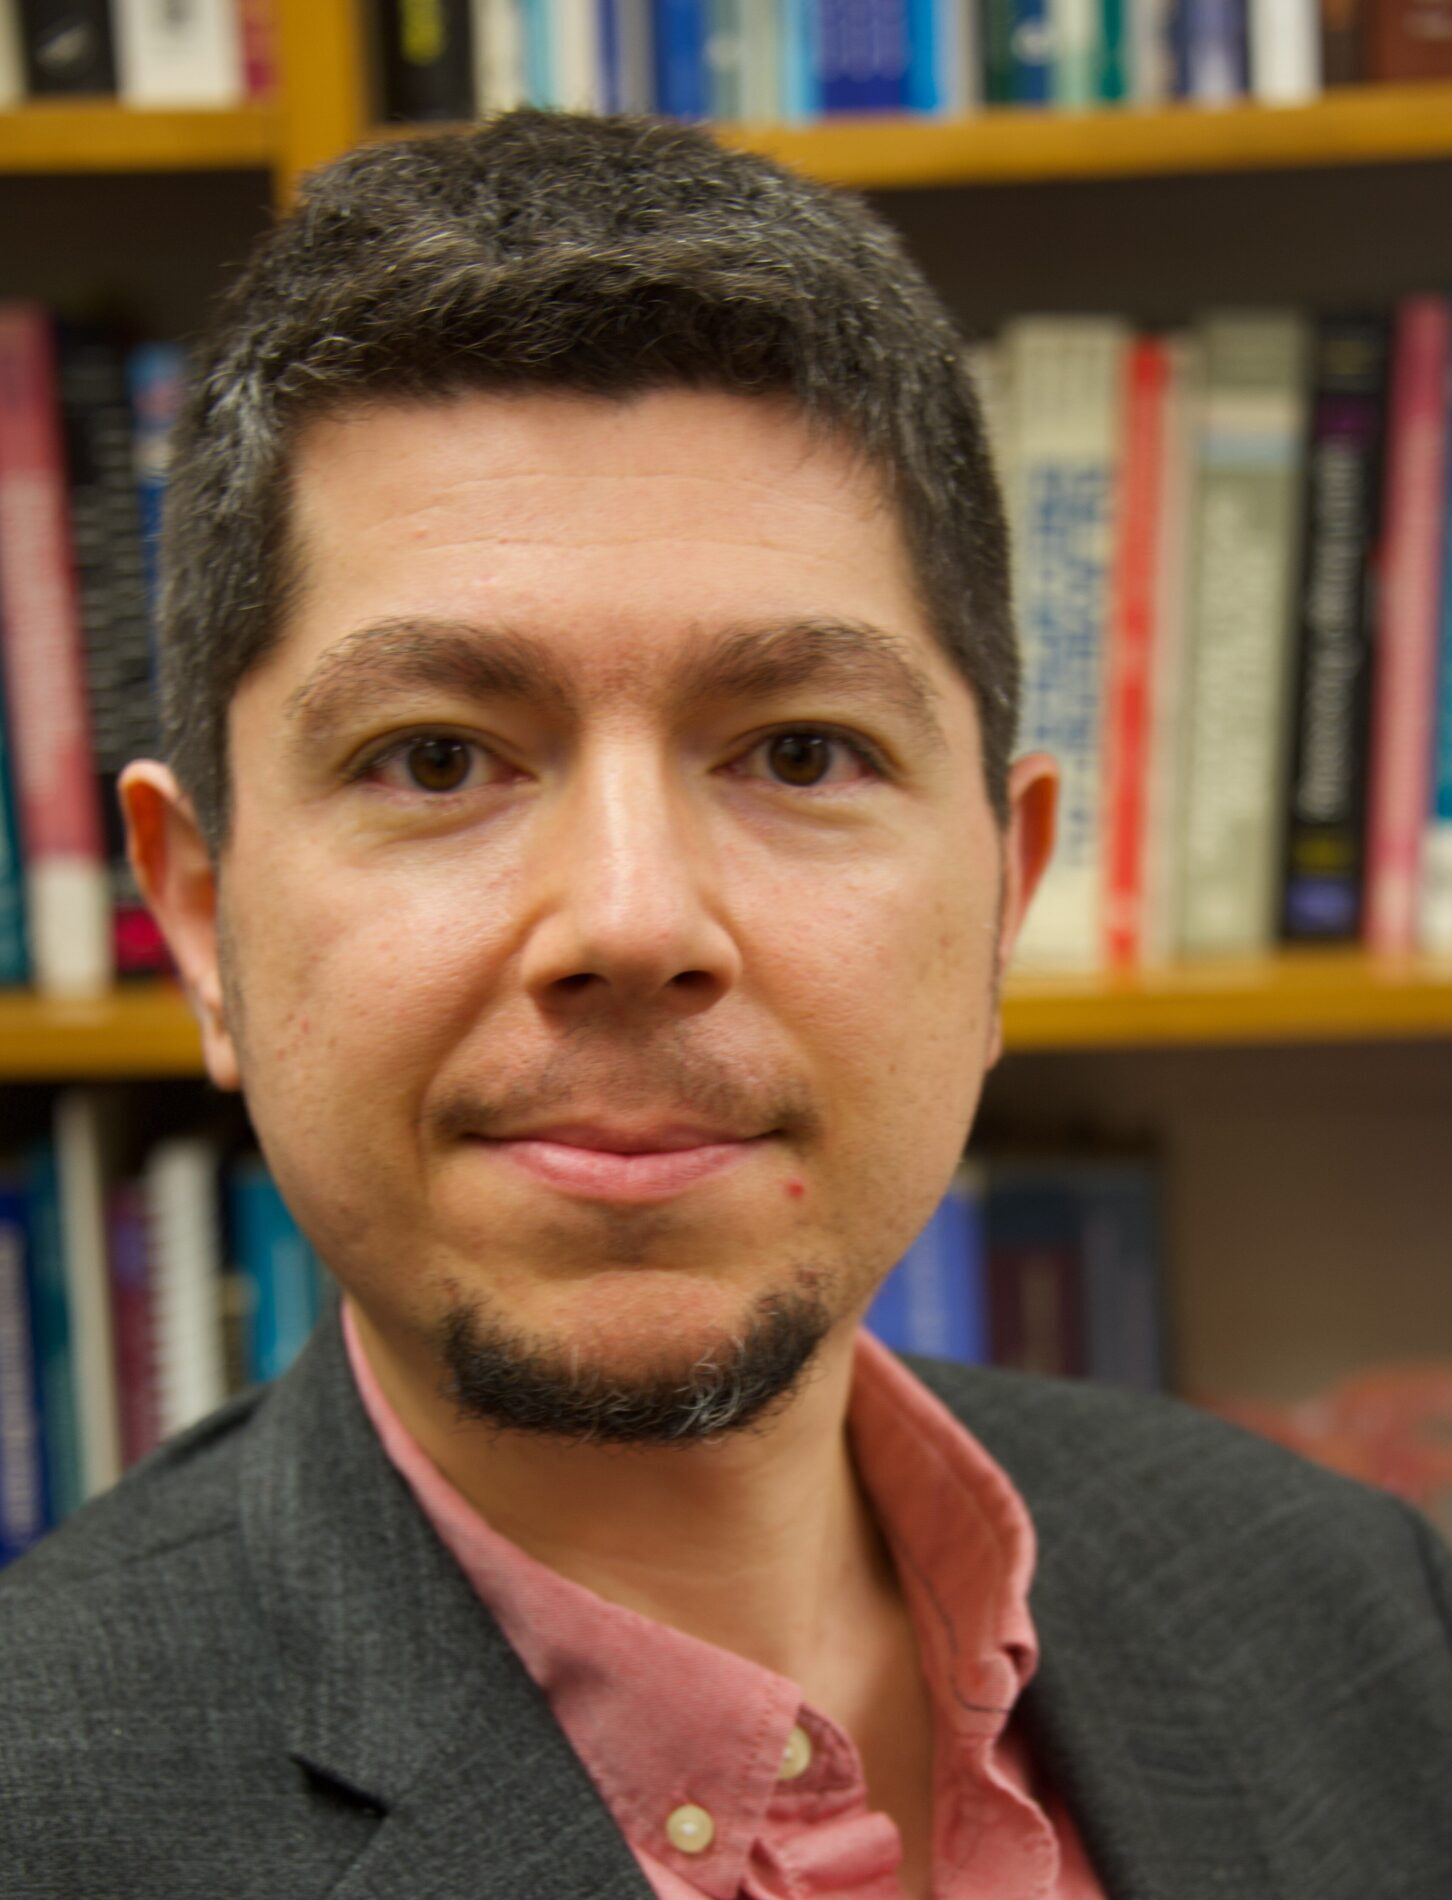
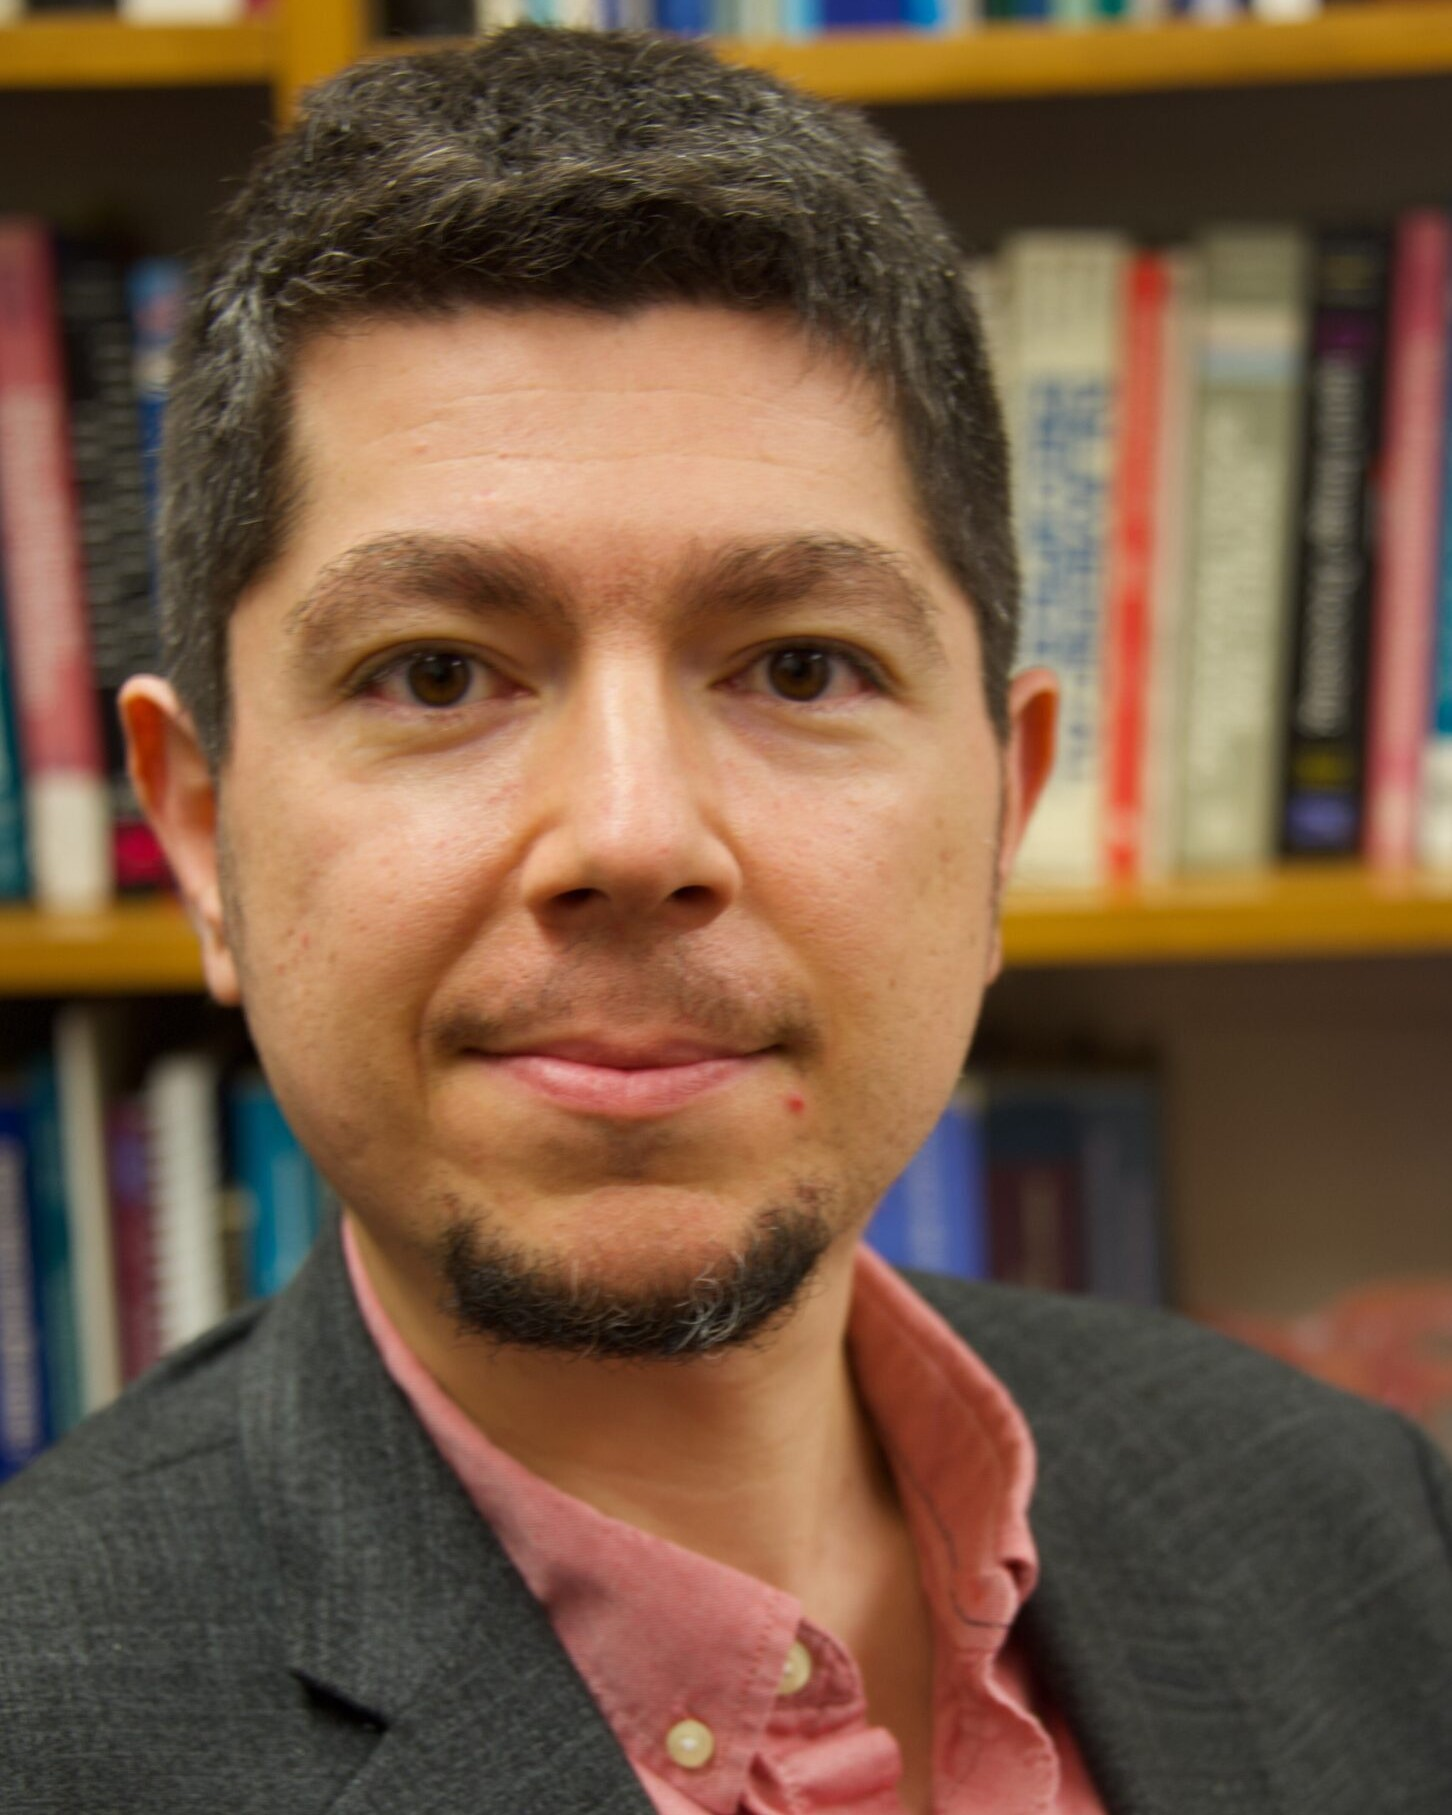
Fix image alignment and desaturation

diff --git a/index.html b/index.html
@@ -107,7 +107,7 @@
     </p>
   </div>
 
-  <div class="w3-row-padding w3-grayscale">
+  <div class="w3-row-padding">
     <div class="w3-col l3 m6 w3-margin-bottom">
       <img src="images\THahmann.jpg" alt="Torsten" style="width:100%">
       <h3>Torsten Hahmann</h3>
